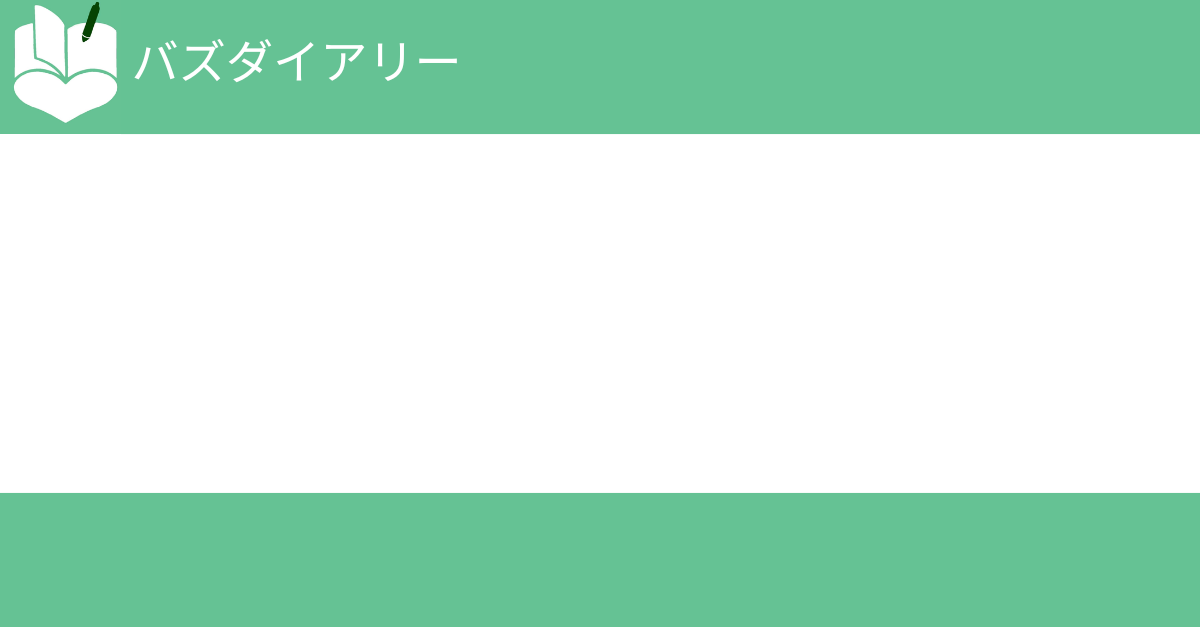
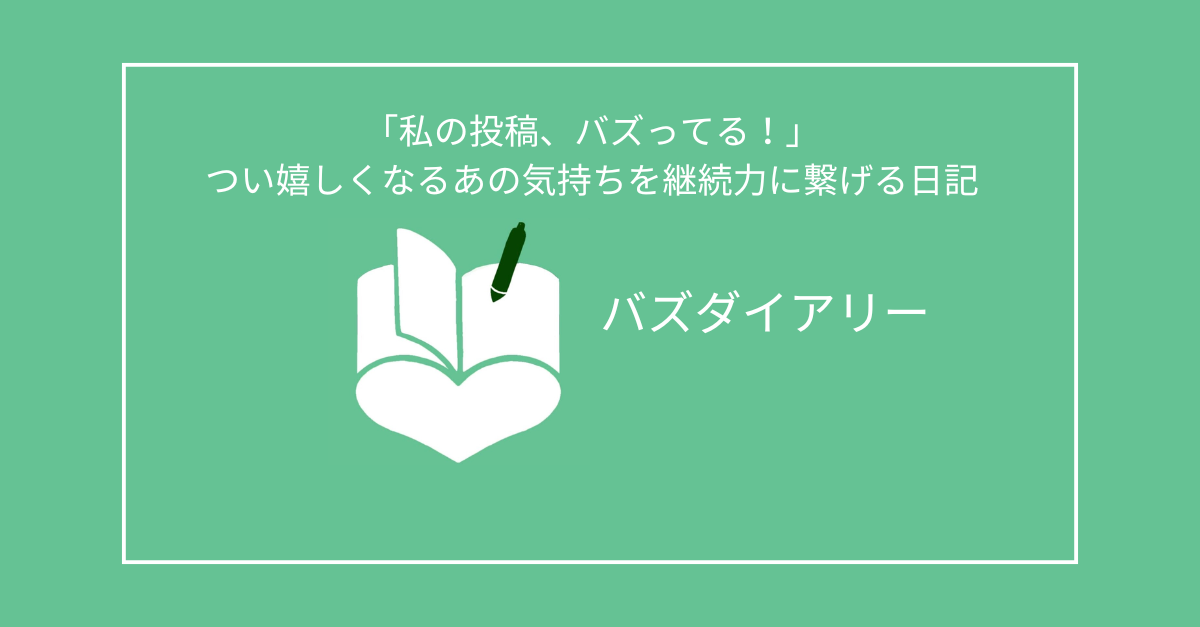
update: 静的OGPと動的メッセージでXシェア機能実装。ミッションページにボタンを設置

diff --git a/app/helpers/application_helper.rb b/app/helpers/application_helper.rb
@@ -43,40 +43,4 @@ module ApplicationHelper
       # }
     }
   end
-
-  def assign_meta_tags(options = {})
-    defaults = t('meta_tags.defaults')
-    options.reverse_merge!(defaults)
-    site = options[:site]
-    title = options[:title]
-    description = options[:description]
-    keywords = options[:keywords]
-    image = options[:image].presence || image_url('ogp.png')
-    configs = {
-      separator: '|',
-      reverse: true,
-      site:,
-      title:,
-      description:,
-      keywords:,
-      canonical: request.original_url,
-      icon: {
-        href: image_url('placeholder.png')
-      },
-      og: {
-        type: 'website',
-        title: title.presence || site,
-        description:,
-        url: request.original_url,
-        image:,
-        site_name: site
-      },
-      twitter: {
-        site:,
-        card: 'summary_large_image',
-        image:
-      }
-    }
-    set_meta_tags(configs)
-  end
 end
